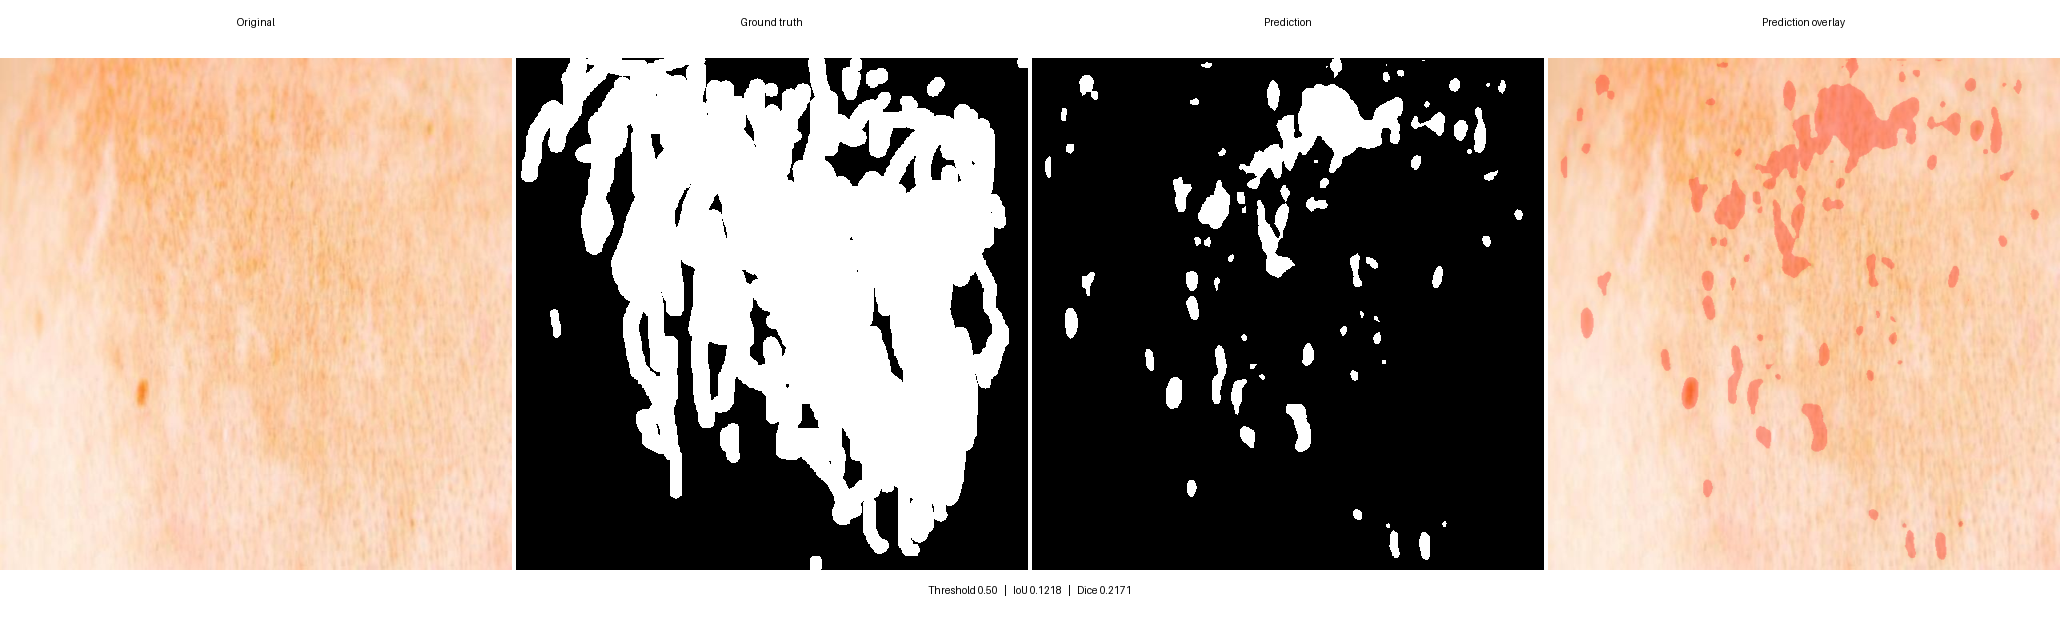
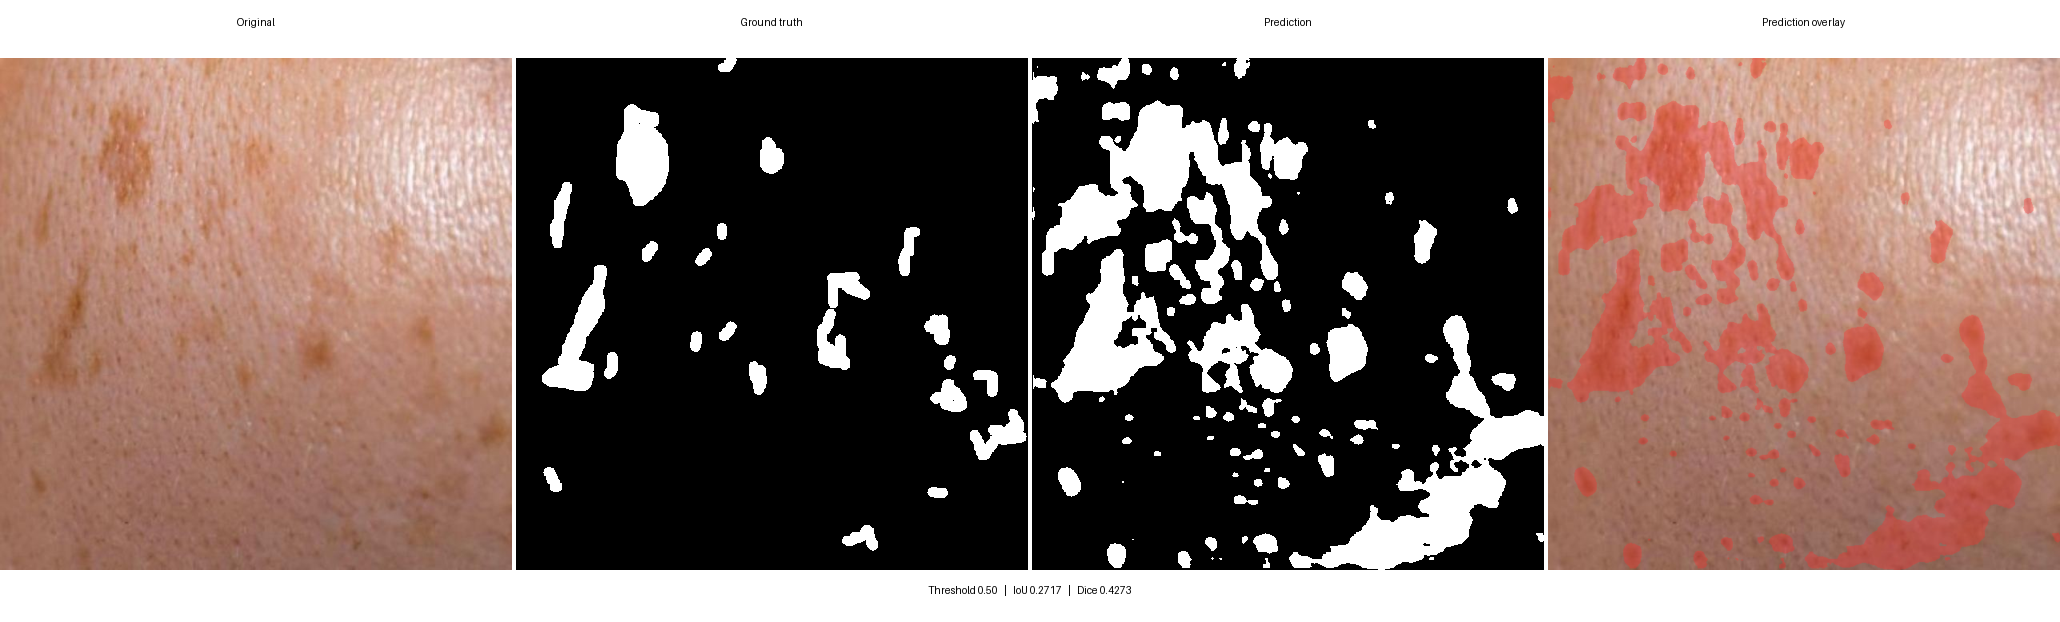
Improve qualitative result examples

diff --git a/README.md b/README.md
@@ -24,13 +24,13 @@ These are internal test-set results rather than an independent clinical benchmar
 
 ### Strong prediction
 
-This held-out example shows close agreement between the manual mask and the model prediction (IoU 0.9398, Dice 0.9690).
+This held-out example combines clear image quality with close agreement between the manual mask and the model prediction (IoU 0.7468, Dice 0.8551).
 
 ![Strong segmentation example showing the original image, ground truth, prediction, and prediction overlay](docs/images/good-example.png)
 
 ### Failure case
 
-This held-out example shows a difficult diffuse pigmentation pattern. The model detects only part of the annotated region (IoU 0.1218, Dice 0.2171), illustrating the limitations of the current checkpoint on fine, fragmented boundaries.
+This held-out example shows a difficult fragmented pigmentation pattern. The model over-segments several regions and misses parts of the manual annotation (IoU 0.2717, Dice 0.4273), illustrating the limitations of the current checkpoint on fine, disconnected boundaries.
 
 ![Segmentation failure case showing the original image, ground truth, prediction, and prediction overlay](docs/images/failure-example.png)
 
